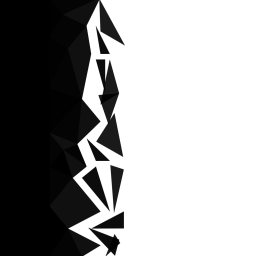
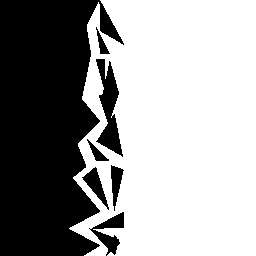
e

diff --git a/src/menu.c b/src/menu.c
@@ -138,7 +138,7 @@ static struct
 	} page_param;
 	
 	//Menu assets
-	Gfx_Tex tex_back, tex_ng, tex_story, tex_title;
+	Gfx_Tex tex_back, tex_thing, tex_ng, tex_story, tex_title;
 	FontData font_bold, font_arial;
 	
 	Character *mchar; //Title Girlfriend
@@ -219,6 +219,13 @@ static void Menu_DrawBack(boolean flash, s32 scroll, u8 r0, u8 g0, u8 b0, u8 r1,
 	else
 		Gfx_DrawTexCol(&menu.tex_back, &back_src, &back_dst, r1, g1, b1);
 }
+static void Menu_DrawFG(s32 scroll)
+{
+	RECT fg_src = {0, 0, 255, 255};
+	RECT fg_dst = {0, -scroll - SCREEN_WIDEADD2, SCREEN_WIDTH, SCREEN_WIDTH * 4 / 5};
+	
+	Gfx_DrawTex(&menu.tex_thing, &fg_src, &fg_dst);
+}
 
 static void Menu_DifficultySelector(s32 x, s32 y)
 {
@@ -296,6 +303,7 @@ void Menu_Load(MenuPage page)
 	//Load menu assets
 	IO_Data menu_arc = IO_Read("\\MENU\\MENU.ARC;1");
 	Gfx_LoadTex(&menu.tex_back,  Archive_Find(menu_arc, "back.tim"),  0);
+	Gfx_LoadTex(&menu.tex_thing,  Archive_Find(menu_arc, "thing.tim"),  0);
 	Gfx_LoadTex(&menu.tex_ng,    Archive_Find(menu_arc, "ng.tim"),    0);
 	Gfx_LoadTex(&menu.tex_story, Archive_Find(menu_arc, "story.tim"), 0);
 	Gfx_LoadTex(&menu.tex_title, Archive_Find(menu_arc, "title.tim"), 0);
@@ -537,10 +545,10 @@ void Menu_Tick(void)
 		case MenuPage_Main:
 		{
 			static const char *menu_options[] = {
-				"STORY MODE",
-				"FREEPLAY",
-				"MODS",
-				"OPTIONS",
+				"STORY MODE														",
+				"FREEPLAY														",
+				"CREDITS															",
+				"OPTIONS														",
 				#ifdef PSXF_NETWORK
 					"JOIN SERVER",
 					"HOST SERVER",
@@ -558,7 +566,7 @@ void Menu_Tick(void)
 			
 			//Draw version identification
 			menu.font_bold.draw(&menu.font_bold,
-				"PSXFUNKIN BY CUCKYDEV",
+				"CYSPSX BY UNSTOPABLE",
 				16,
 				SCREEN_HEIGHT - 32,
 				FontAlign_Left
@@ -656,7 +664,11 @@ void Menu_Tick(void)
 					FontAlign_Center
 				);
 			}
-			
+			//Draw background
+			Menu_DrawFG(
+				menu.scroll >> (FIXED_SHIFT + 3)
+			);
+
 			//Draw background
 			Menu_DrawBack(
 				menu.next_page == menu.page || menu.next_page == MenuPage_Title,
@@ -924,10 +936,17 @@ void Menu_Tick(void)
 				u32 col;
 				boolean difficulty;
 			} menu_options[] = {
-				{StageId_Kapi_1, "VS KAPI", 0xFFFC96D7, false},
-				{StageId_Clwn_1, "VS TRICKY", 0xFFFC96D7, true},
-				{StageId_Clwn_4, "   EXPURGATION", 0xFFFC96D7, false},
-				{StageId_2_4,    "CLUCKED", 0xFFFC96D7, false},
+				{StageId_Kapi_1, "	PORT DEVS", 0xFFFFFF, false},
+				{StageId_Clwn_1, "UNSTOPABLE", 0xFFB12B, false},
+				{StageId_Clwn_4, "IGORSOU", 0x00FF1D, false},
+				{StageId_Clwn_4, "DREAMCASTNICK", 0x7F3300, false},
+				{StageId_2_4,    "", 0xFFFFFF, false},
+				{StageId_Kapi_1, "	PLAYTESTERS", 0xFFFFFF, false},
+				{StageId_Clwn_1, "JOHN PAUL", 0xFFFFFF, false},
+				{StageId_2_4,    "", 0xFFFFFF, false},
+				{StageId_Kapi_1, "	OG MOD DEVS", 0xFFFFFF, false},
+				{StageId_Clwn_1, "JOTAMR", 0xFF3A3A, false},
+				{StageId_Clwn_4, "RICKYLONYOLO", 0x7143FF, false},
 			};
 
 			//Initialize page
@@ -969,17 +988,6 @@ void Menu_Tick(void)
 						menu.select++;
 					else
 						menu.select = 0;
-				}
-				
-				//Select option if cross is pressed
-				if (pad_state.press & (PAD_START | PAD_CROSS))
-				{
-					menu.next_page = MenuPage_Stage;
-					menu.page_param.stage.id = menu_options[menu.select].stage;
-					menu.page_param.stage.story = true;
-					if (!menu_options[menu.select].difficulty)
-						menu.page_param.stage.diff = StageDiff_Hard;
-					Trans_Start();
 				}
 				
 				//Return to main menu if circle is pressed
